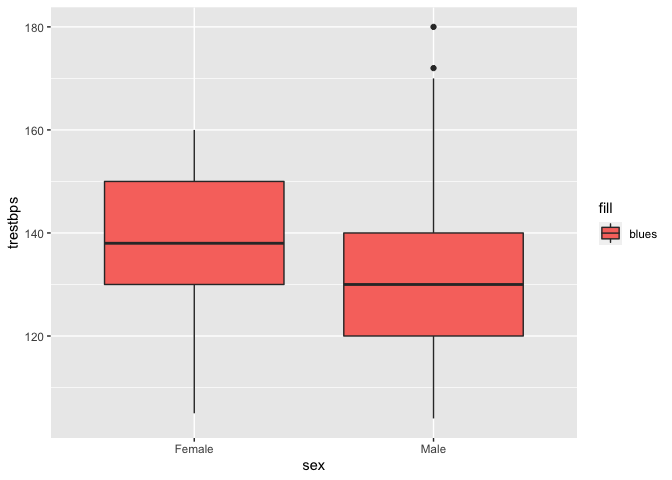
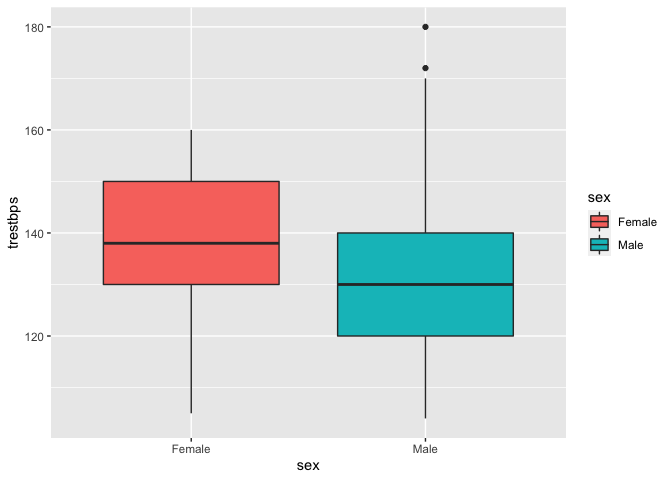
Fixing fig 03-18 graph colouring

diff --git a/_episodes/03-Simple-Linear-Regression.md b/_episodes/03-Simple-Linear-Regression.md
@@ -619,7 +619,7 @@ Comparing boxplots can give us a good indication if the distributions of SBP is 
 
 
 ```r
-ggplot(data = heart, aes(x = sex, y = trestbps, fill = "blues")) +
+ggplot(data = heart, aes(x = sex, y = trestbps, fill = sex)) +
   geom_boxplot()
 ```
 ![RStudio layout](../fig/03-fig18.png)
